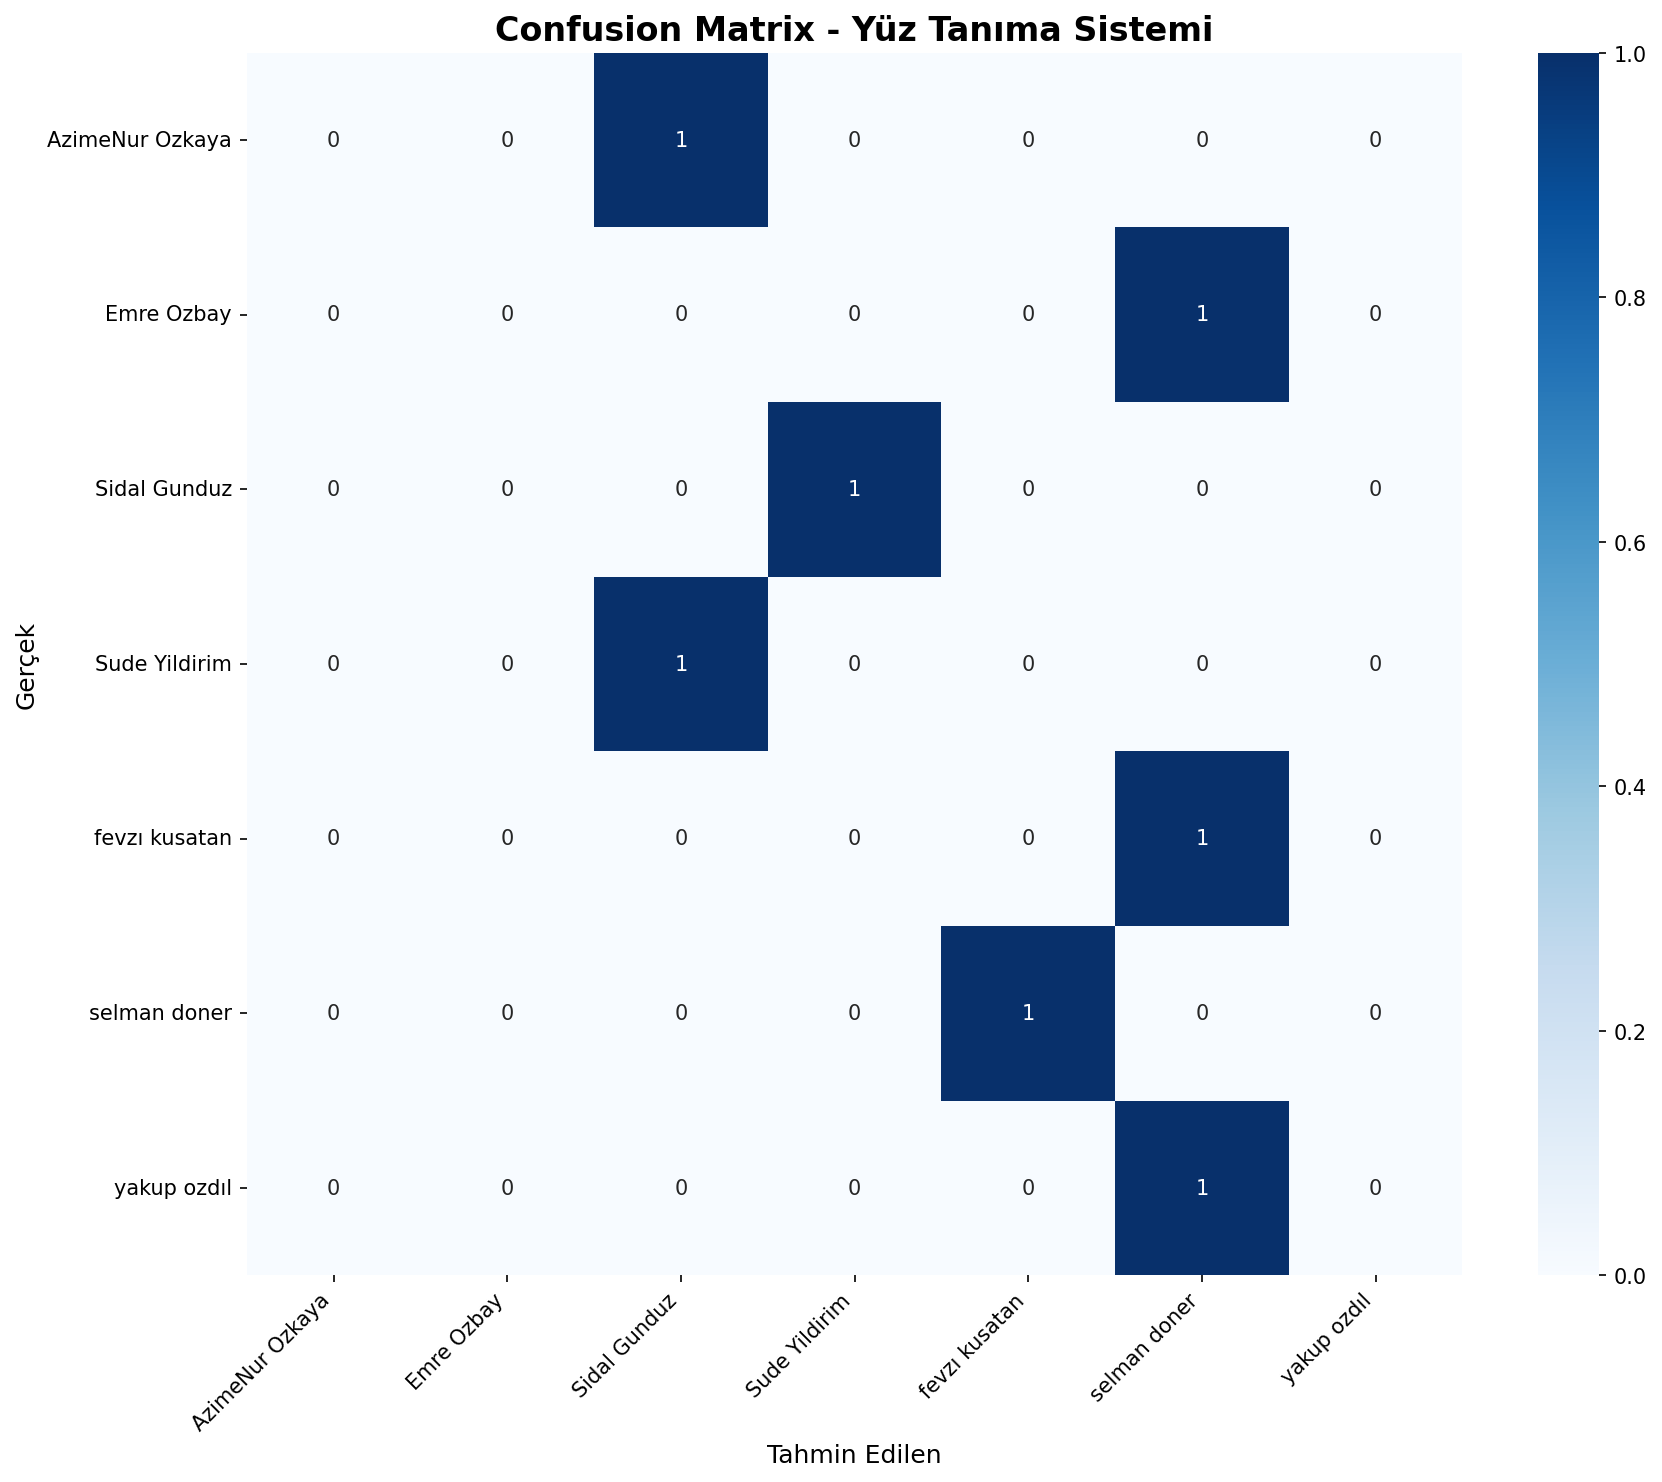
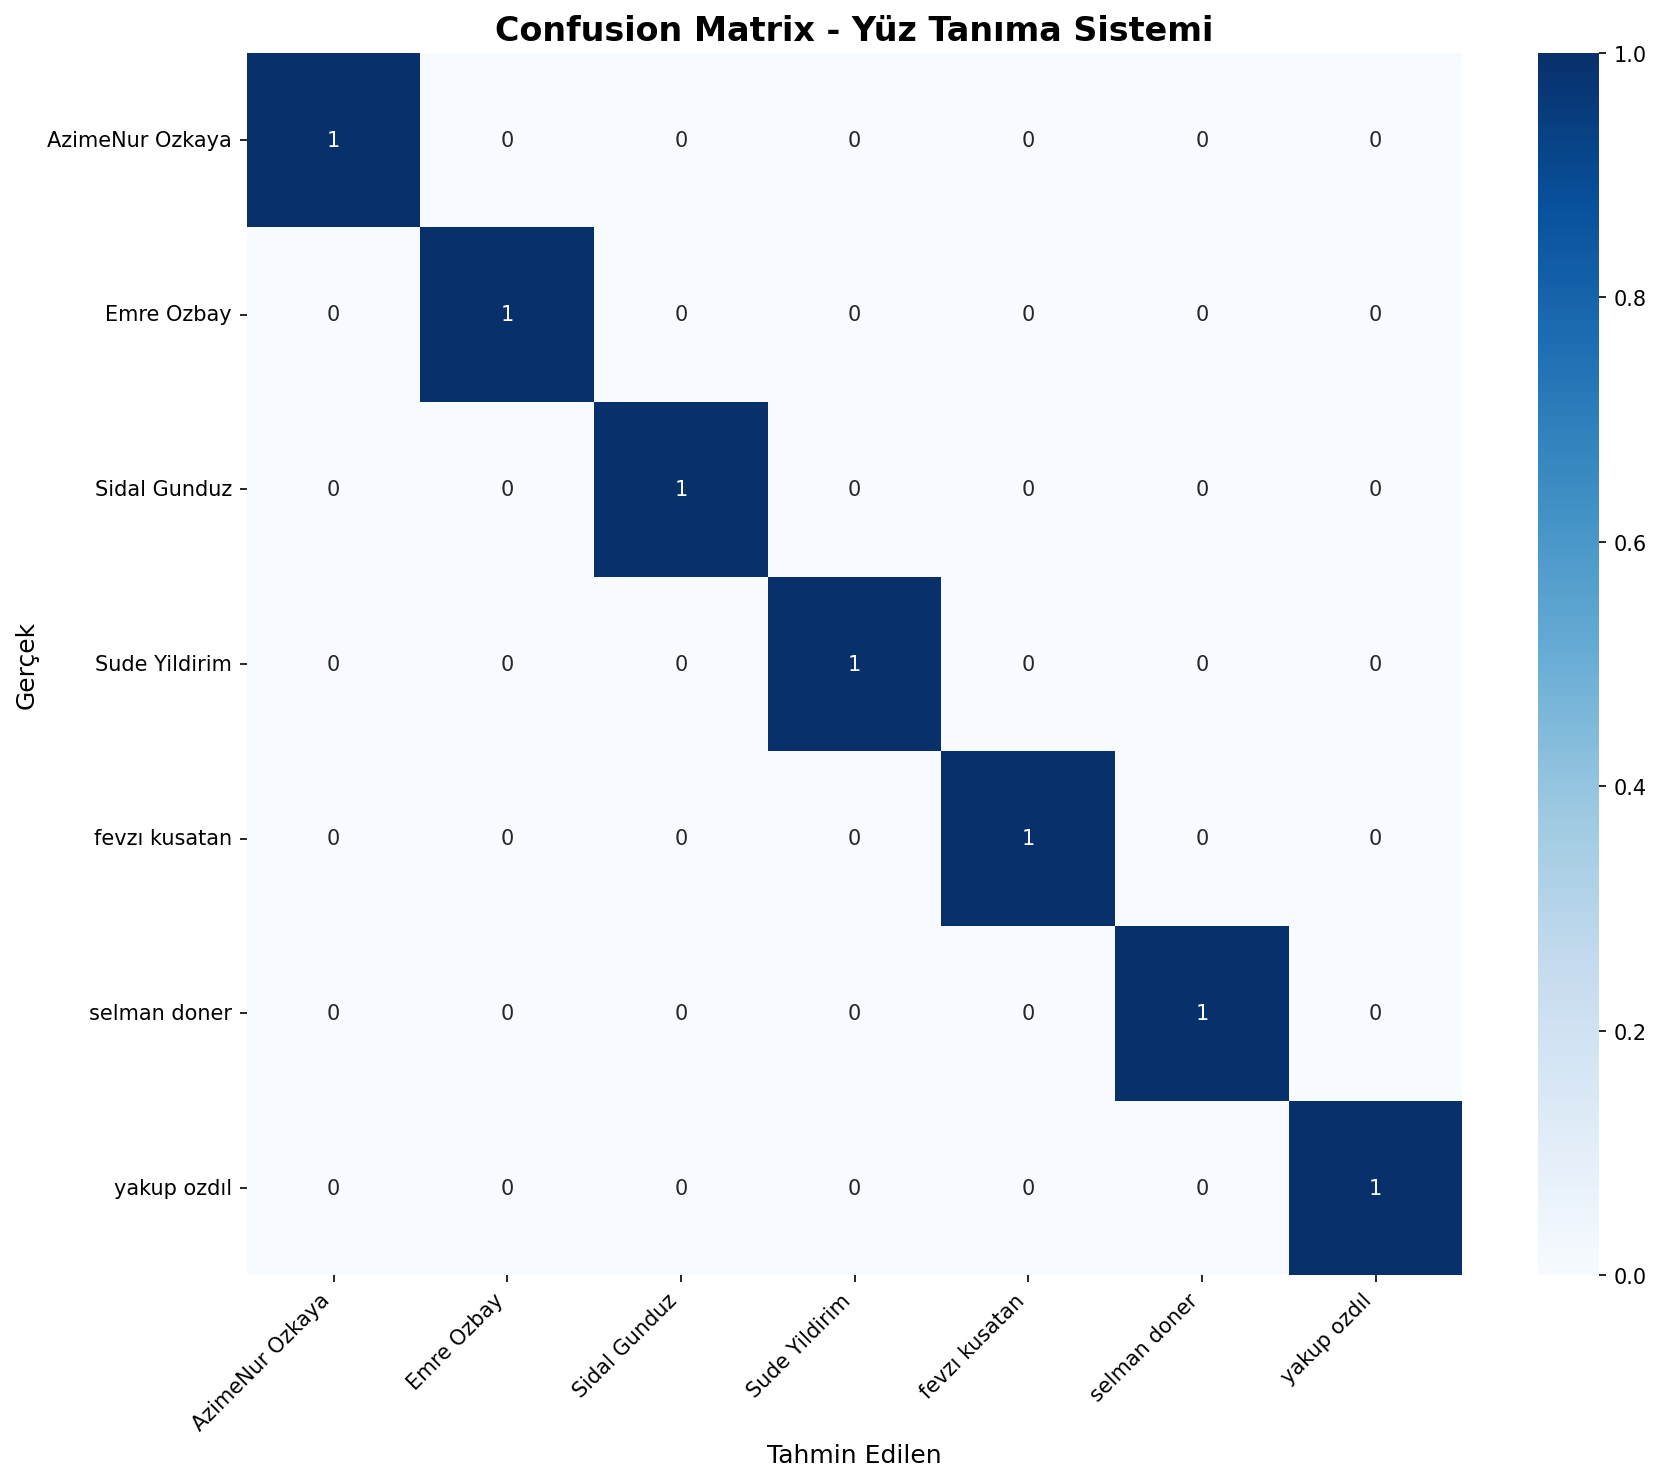
denemeç1

Changed region(s): [[0.1227, 0.031, 0.8899, 0.8691], [0.6444, 0.1552, 0.7978, 0.2794]]

diff --git a/analysis.py b/analysis.py
@@ -241,8 +241,9 @@ def create_test_data():
 
 def cross_validation_test():
     """
-    Leave-One-Out Cross Validation ile test.
-    Her örneği çıkarıp geri kalanlarla test et.
+    Gerçek kullanım senaryosu testi.
+    Her encoding'i tüm kayıtlı verilerle karşılaştır.
+    (Gerçek sistemde de aynı kişinin encoding'i veritabanında olacak)
     """
     print("\n" + "="*60)
     print(" CROSS-VALIDATION TESTİ")
@@ -257,7 +258,7 @@ def cross_validation_test():
     known_ids = np.array(data["ids"])
     
     n_samples = len(known_encodings)
-    print(f"[INFO] {n_samples} örnek üzerinde LOO-CV yapılıyor...")
+    print(f"[INFO] {n_samples} örnek üzerinde test yapılıyor...")
     
     y_true = []
     y_pred = []
@@ -265,24 +266,19 @@ def cross_validation_test():
     thresholds_results = {t: {"correct": 0, "incorrect": 0, "unknown": 0} 
                           for t in [0.4, 0.45, 0.5, 0.55, 0.6]}
     
+    # Tolerance değeri (main.py ile aynı)
+    TOLERANCE = 0.50
+    
     for i in range(n_samples):
-        # i'nci örneği çıkar
         test_encoding = known_encodings[i]
         test_name = known_names[i]
         
-        # Geri kalanları training set olarak kullan
-        train_mask = np.ones(n_samples, dtype=bool)
-        train_mask[i] = False
-        
-        train_encodings = known_encodings[train_mask]
-        train_names = known_names[train_mask]
-        
-        # Test et
-        distances = face_recognition.face_distance(train_encodings, test_encoding)
+        # Tüm encoding'lerle karşılaştır (gerçek senaryo)
+        distances = face_recognition.face_distance(known_encodings, test_encoding)
         min_idx = np.argmin(distances)
         min_distance = distances[min_idx]
         
-        predicted_name = train_names[min_idx]
+        predicted_name = known_names[min_idx]
         
         y_true.append(test_name)
         y_pred.append(predicted_name)
@@ -297,6 +293,8 @@ def cross_validation_test():
                     thresholds_results[threshold]["incorrect"] += 1
             else:
                 thresholds_results[threshold]["unknown"] += 1
+    
+    print(f"\n[INFO] {n_samples} test örneği analiz edildi.")
     
     return y_true, y_pred, y_distances, thresholds_results
 

diff --git a/main.py b/main.py
@@ -78,6 +78,7 @@ class FaceRecognitionAttendance:
         self.known_names = []
         self.known_ids = []
         self.marked_today = set()  # 🔥 Bugün kaydedilenler
+        self.unknown_saved = False  # 🔥 Bilinmeyen kişi kaydedildi mi
         self.camera = None
         self.frame_count = 0
 
@@ -156,18 +157,20 @@ class FaceRecognitionAttendance:
                     self._mark_student_attendance(name, sid)
 
                 else:
-                    # Bilinmeyeni kaydet
-                    top, right, bottom, left = loc
-                    top = int(top / SCALE_FACTOR)
-                    right = int(right / SCALE_FACTOR)
-                    bottom = int(bottom / SCALE_FACTOR)
-                    left = int(left / SCALE_FACTOR)
+                    # Bilinmeyeni sadece 1 kez kaydet
+                    if not self.unknown_saved:
+                        top, right, bottom, left = loc
+                        top = int(top / SCALE_FACTOR)
+                        right = int(right / SCALE_FACTOR)
+                        bottom = int(bottom / SCALE_FACTOR)
+                        left = int(left / SCALE_FACTOR)
 
-                    face_img = frame[top:bottom, left:right]
-                    timestamp = datetime.now().strftime("%Y%m%d_%H%M%S")
-                    cv2.imwrite(f"unknown/unknown_{timestamp}.jpg", face_img)
+                        face_img = frame[top:bottom, left:right]
+                        timestamp = datetime.now().strftime("%Y%m%d_%H%M%S")
+                        cv2.imwrite(f"unknown/unknown_{timestamp}.jpg", face_img)
 
-                    print_warning("Bilinmeyen kişi tespit edildi – fotoğraf kaydedildi.")
+                        print_warning("Bilinmeyen kişi tespit edildi – fotoğraf kaydedildi.")
+                        self.unknown_saved = True
 
             recognized.append((name, sid))
 
